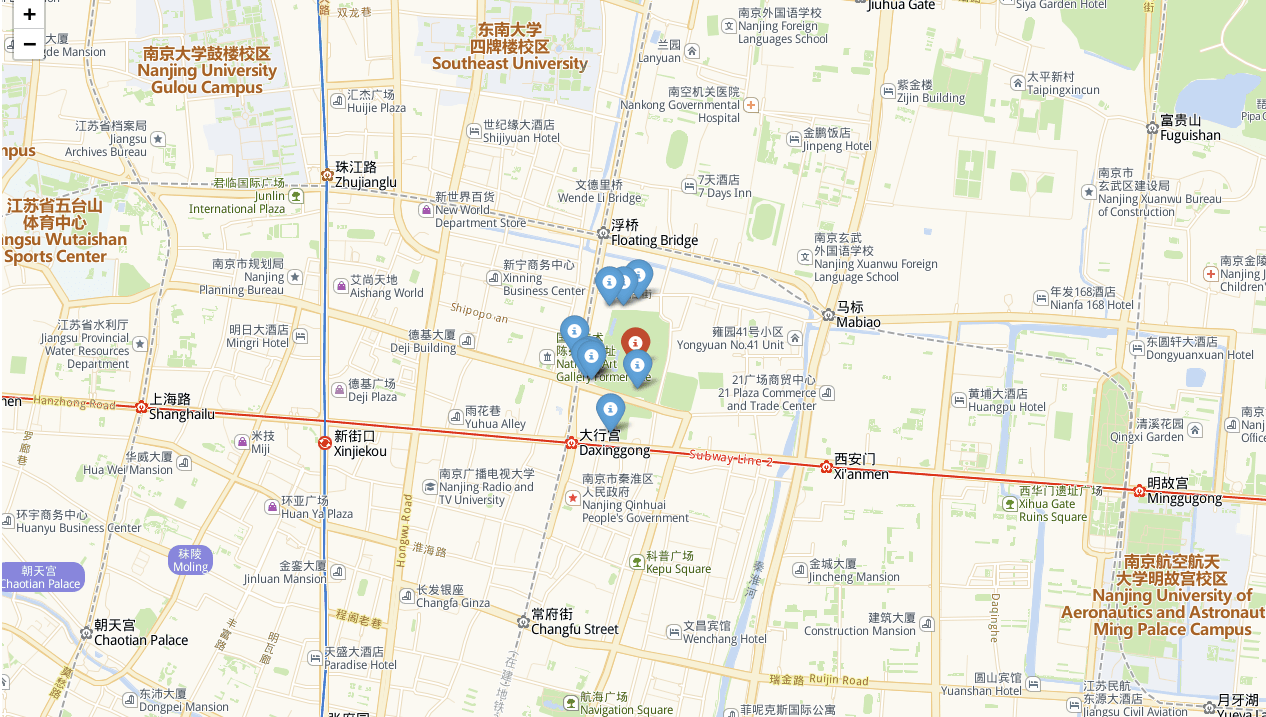
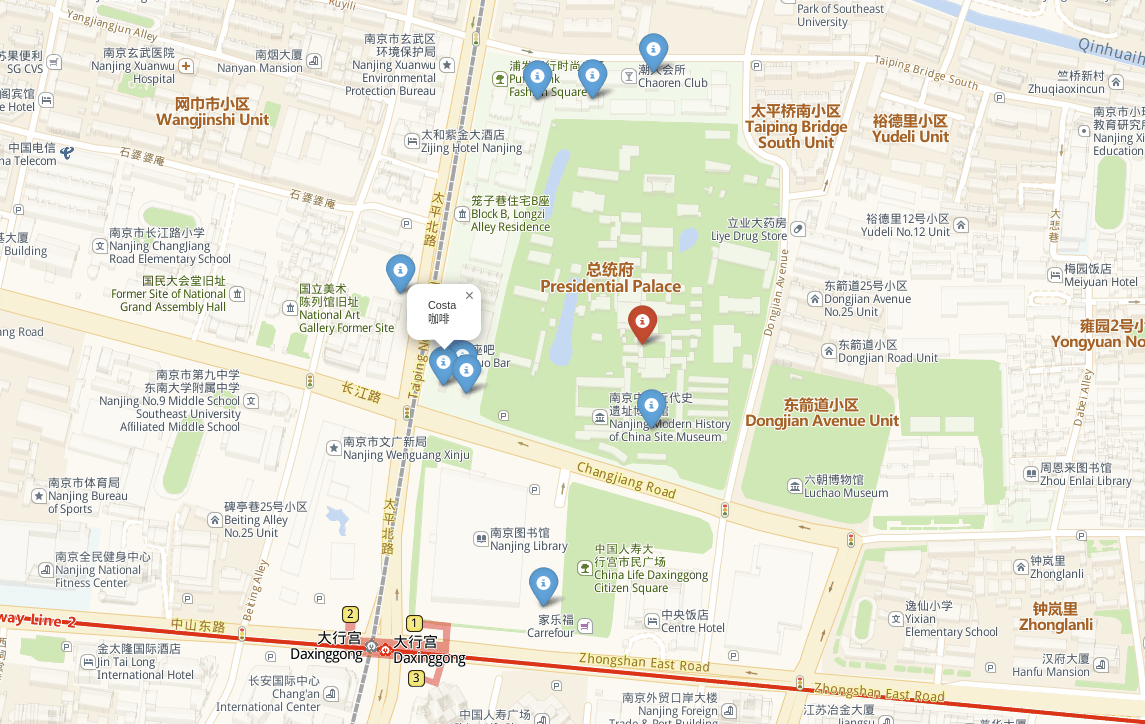
update images

diff --git a/setup.py b/setup.py
@@ -2,7 +2,7 @@ import setuptools
 
 setuptools.setup(
     name="geopi",
-    version="0.1.3",
+    version="0.1.4",
     author="author",
     author_email="author@example.com",
     description="A small example package",

diff --git a/README.md b/README.md
@@ -98,7 +98,7 @@ ax.legend()
 plt.show()
 
 ```
-![boundary](https://raw.githubusercontent.com/KaffeeCat/geopi/main/images/visualize.png)
+![boundary](https://picx.zhimg.com/80/v2-2c6be5556643541cb83b29e009ea3879_720w.png?source=d16d100b)
 
 ## 5. 位置附近POI查询
 
@@ -121,7 +121,7 @@ ret = geopi.search_nearest_poi(lat, lng, topk=10)
 
 输出附近POI数据，fclass为POI类型，name为POI名称，wgs84和gcj为POI在不同坐标系的坐标点,dist为距离查询位置点的距离，距离单位为米(Meters)：
 
-![pois](https://raw.githubusercontent.com/KaffeeCat/geopi/main/images/pois.png)
+![pois](https://pic1.zhimg.com/80/v2-df0d34662debe287f9de00b3d60a1390_720w.png?source=d16d100b)
 
 ## 6. 通过folium对位置附近POI进行可视化
 
@@ -155,7 +155,7 @@ map
 
 位置附近的POI在地图上的可视化：
 
-![pois](https://raw.githubusercontent.com/KaffeeCat/geopi/main/images/pois_on_map.png)
+![pois](https://picx.zhimg.com/80/v2-e73b4fb530d2d22a36c47b69b0b47b9c_720w.png?source=d16d100b)
 
 
 ## License
